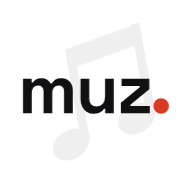
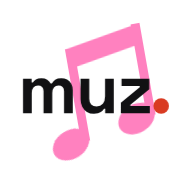
muzplayer 0.15.1: 핫핑크 음표 로고, 모던 다크(Spotify 스타일) 테마, 미니 재생바 숨기기 버튼
Claude-Session: https://claude.ai/code/session_01WfkWxhki5c3iBRETbQbxXK

Changed region(s): [[0.25, 0.0938, 0.8125, 0.8438]]

diff --git a/frontend/src/components/AppLogo.vue b/frontend/src/components/AppLogo.vue
@@ -1,7 +1,7 @@
 <script setup lang="ts">
-// The muz mark (a tile with "muz", a red dot and faint notes behind) and the name beside it. Its colours come from the
-// theme: a dark tile on light pages, and the other way round on a dark one (public/app-icon*.svg and
-// the PWA icons are the same drawing in fixed colours).
+// The muz mark (a tile with "muz", a red dot and hot-pink notes behind) and the name beside it.
+// The tile and the word follow the theme: a dark tile on light pages, a light one on the dark theme;
+// the dot and notes keep their colours. public/app-icon*.svg and the PWA icons are the same drawing.
 withDefaults(defineProps<{ size?: number; wordmark?: boolean }>(), { size: 32, wordmark: true })
 </script>
 
@@ -9,10 +9,10 @@ withDefaults(defineProps<{ size?: number; wordmark?: boolean }>(), { size: 32, w
   <span class="inline-flex items-center gap-2.5">
     <svg :width="size" :height="size" viewBox="0 0 512 512" aria-hidden="true">
       <rect width="512" height="512" rx="112.6" fill="var(--color-ink)" />
-      <!-- beamed eighth notes behind the word, see-through -->
-      <g fill="var(--color-bg)" opacity="0.11"><g transform="rotate(-10 256 256)"><ellipse cx="168" cy="372" rx="52" ry="38" transform="rotate(-22 168 372)"/><ellipse cx="352" cy="334" rx="52" ry="38" transform="rotate(-22 352 334)"/><rect x="196" y="120" width="24" height="250"/><rect x="380" y="84" width="24" height="248"/><path d="M196 120 L404 84 L404 138 L196 174 Z"/></g></g>
+      <!-- beamed eighth notes behind the word, in hot pink -->
+      <g fill="#FF2D95" opacity="0.68"><g transform="rotate(-10 256 256)"><ellipse cx="168" cy="372" rx="52" ry="38" transform="rotate(-22 168 372)"/><ellipse cx="352" cy="334" rx="52" ry="38" transform="rotate(-22 352 334)"/><rect x="196" y="120" width="24" height="250"/><rect x="380" y="84" width="24" height="248"/><path d="M196 120 L404 84 L404 138 L196 174 Z"/></g></g>
       <path transform="translate(48.51 301.81) scale(0.18473)" fill="var(--color-bg)" d="M70 0V-496H194V-442H212Q225 -467 255.0 -485.5Q285 -504 334 -504Q387 -504 419.0 -483.5Q451 -463 468 -430H486Q503 -462 534.0 -483.0Q565 -504 622 -504Q668 -504 705.5 -484.5Q743 -465 765.5 -425.5Q788 -386 788 -326V0H662V-317Q662 -358 641.0 -378.5Q620 -399 582 -399Q539 -399 515.5 -371.5Q492 -344 492 -293V0H366V-317Q366 -358 345.0 -378.5Q324 -399 286 -399Q243 -399 219.5 -371.5Q196 -344 196 -293V0ZM1093 8Q1035 8 991.5 -18.5Q948 -45 924.0 -92.0Q900 -139 900 -200V-496H1026V-210Q1026 -154 1053.5 -126.0Q1081 -98 1132 -98Q1190 -98 1222.0 -136.5Q1254 -175 1254 -244V-496H1380V0H1256V-65H1238Q1226 -40 1193.0 -16.0Q1160 8 1093 8ZM1482 0V-150L1754 -376V-392H1492V-496H1892V-346L1620 -120V-104H1900V0Z" />
-      <circle cx="429.75" cy="282.48" r="20.81" fill="var(--color-accent)" />
+      <circle cx="429.75" cy="282.48" r="20.81" fill="#E8432A" />
     </svg>
     <span v-if="wordmark" class="font-display tracking-tight" :style="{ fontSize: `${Math.round(size * 0.68)}px` }">
       <b>muz</b><span class="text-muted">player</span>

diff --git a/frontend/src/components/PlayerBar.vue b/frontend/src/components/PlayerBar.vue
@@ -30,8 +30,9 @@ const preview = ref<number | null>(null)
 
 const isBook = computed(() => player.mode === 'book' && !!player.book)
 
-// phone mini player: swipe sideways for the next / previous song, up to open the player, down to
-// tuck it away (App.vue then shows a small button; it comes back by itself when something starts)
+// phone mini player: swipe sideways for the next / previous song, up to open the player, down (or
+// the ∨ at its end) to tuck it away (App.vue then shows a small button; it comes back by itself
+// when something starts)
 const slide = ref(0)
 const sliding = ref(false)
 const swipe = useSwipe({
@@ -81,6 +82,7 @@ const segPos = computed(() => Math.min(segLength.value, Math.max(0, player.bookP
       <button type="button" class="grid size-11 place-items-center" :aria-label="t('player.skipForward', { n: player.skipForward })" @click="player.skip(player.skipForward)">
         <SkipIcon :seconds="player.skipForward" forward :size="26" />
       </button>
+      <button type="button" class="grid w-8 flex-none place-items-center self-stretch text-muted" :aria-label="t('player.hideBar')" @click="ui.barHidden = true"><ChevronDown :size="18" :stroke-width="1.6" /></button>
       <span class="absolute inset-x-6 bottom-0 h-[2px] bg-line">
         <span class="block h-full bg-accent" :style="{ width: player.book.duration ? `${(player.bookPos / player.book.duration) * 100}%` : '0%' }" />
       </span>
@@ -106,6 +108,7 @@ const segPos = computed(() => Math.min(segLength.value, Math.max(0, player.bookP
       <button type="button" class="grid size-11 place-items-center" :aria-label="t('player.queue')" @click="ui.queueOpen = true">
         <QueueIcon />
       </button>
+      <button type="button" class="grid w-8 flex-none place-items-center self-stretch text-muted" :aria-label="t('player.hideBar')" @click="ui.barHidden = true"><ChevronDown :size="18" :stroke-width="1.6" /></button>
       <span class="absolute inset-x-6 bottom-0 h-[2px] bg-line">
         <span class="block h-full bg-accent" :style="{ width: player.duration ? `${(player.currentTime / player.duration) * 100}%` : '0%' }" />
       </span>

diff --git a/frontend/src/style.css b/frontend/src/style.css
@@ -29,6 +29,7 @@
   --glass-shadow: 0 8px 24px rgb(17 17 19 / 0.1);
   --glow-strong: 55%; /* cover colour mixed into the background of the PC player */
   --glow-soft: 18%;
+  --player-glow: #c9d6e3; /* the players' soft background glow for a song without a cover */
   color-scheme: light;
 }
 
@@ -62,6 +63,36 @@
   background:
     radial-gradient(120% 55% at 85% 100%, color-mix(in srgb, var(--ambient, #d3cdc7) 45%, transparent), transparent 70%),
     linear-gradient(180deg, #cbc5bf 0%, #d6d1cc 100%);
+  transition: background 0.6s;
+}
+
+/* Modern dark (Spotify-like): near-black, raised greys, green accent, white pills with black text;
+   the playing song's cover colour washes down from the top of the page (App.vue sets --ambient). */
+:root[data-theme="spotify"] {
+  --color-bg: #121212;
+  --color-surface: #1f1f1f;
+  --color-surface-2: #2a2a2a;
+  --color-line: #262626;
+  --color-line-strong: #3a3a3a;
+  --color-ink: #ffffff;
+  --color-muted: #b3b3b3;
+  --color-subtle: #7c7c7c;
+  --color-accent: #1ed760;
+  --color-accent-strong: #1db954;
+  --color-accent-soft: #17311f;
+  --color-danger: #f3727f;
+  --color-on-ink: #000000;
+  --color-soft: #b3b3b3;
+  --color-sheet: #121212;
+  --glass-bg: rgb(24 24 24 / 0.88);
+  --glass-shadow: 0 8px 28px rgb(0 0 0 / 0.55);
+  --glow-strong: 40%;
+  --glow-soft: 14%;
+  --player-glow: #2a2a2a;
+  color-scheme: dark;
+}
+:root[data-theme="spotify"] .ambient {
+  background: linear-gradient(180deg, color-mix(in srgb, var(--ambient, #121212) 42%, #121212) 0, #121212 380px);
   transition: background 0.6s;
 }
 

diff --git a/frontend/src/App.vue b/frontend/src/App.vue
@@ -186,12 +186,12 @@ watch(() => ui.playerPrefs.musicSpeed, (on) => {
 })
 useWakeLock(() => ui.playerPrefs.keepAwake && player.playing && (ui.playerOpen || route.name === 'playing'))
 
-// Plexamp-style theme: the playing song's cover colour tints the page background
+// Plexamp-style and modern dark themes: the playing song's cover colour tints the page background
 const ambient = ref('')
 watch(
   () => [ui.theme, player.current?.album_id, player.current?.cover_v, player.current?.has_cover] as const,
   async ([theme, albumId, v, hasCover]) => {
-    ambient.value = theme === 'plexamp' && albumId && hasCover ? ((await coverGlow(albumId, v)) ?? '') : ''
+    ambient.value = (theme === 'plexamp' || theme === 'spotify') && albumId && hasCover ? ((await coverGlow(albumId, v)) ?? '') : ''
   },
   { immediate: true },
 )

diff --git a/frontend/public/sw.js b/frontend/public/sw.js
@@ -2,7 +2,7 @@
 // Music and API calls go to the server, except songs saved for offline (src/offline.ts), which
 // the player asks for with ?saved=1 and which are answered from the device. Covers with a version in the URL (?v=) never
 // change, so they are kept in their own cache and not asked for again.
-const CACHE = 'muz-shell-v2' // v2: the muz icons
+const CACHE = 'muz-shell-v3' // v3: the muz icons with pink notes
 const COVERS = 'muz-covers-v1' // also cleared on logout (stores/auth.ts)
 const AUDIO = 'muz-audio-v1' // songs fetched ahead by the page (src/audioCache.ts); not touched here
 const OFFLINE = 'muz-offline-v1' // songs saved for offline (src/offline.ts); never trimmed here

diff --git a/frontend/src/stores/ui.ts b/frontend/src/stores/ui.ts
@@ -6,10 +6,10 @@ import type { Quality } from '../stream'
 const PREFS_KEY = 'muz.ui'
 
 // remembered per browser; storage may be blocked (private window), then it just isn't kept
-export const THEMES = ['default', 'plexamp'] as const
+export const THEMES = ['default', 'plexamp', 'spotify'] as const
 export type Theme = (typeof THEMES)[number]
 // the browser's bar colour per theme (meta theme-color)
-const THEME_BARS: Record<Theme, string> = { default: '#FFFFFF', plexamp: '#CBC5BF' }
+const THEME_BARS: Record<Theme, string> = { default: '#FFFFFF', plexamp: '#CBC5BF', spotify: '#121212' }
 
 // display and player options from Settings, kept per browser
 export interface PlayerPrefs {

diff --git a/frontend/index.html b/frontend/index.html
@@ -19,9 +19,10 @@
       // the colour theme picked in Settings (stores/ui.ts), applied before the first paint
       try {
         var theme = JSON.parse(localStorage.getItem('muz.ui') || '{}').theme
-        if (theme === 'plexamp') {
+        var bars = { plexamp: '#CBC5BF', spotify: '#121212' }
+        if (bars[theme]) {
           document.documentElement.dataset.theme = theme
-          document.querySelector('meta[name="theme-color"]').setAttribute('content', '#CBC5BF')
+          document.querySelector('meta[name="theme-color"]').setAttribute('content', bars[theme])
         }
       } catch (e) {}
     </script>

diff --git a/frontend/src/components/NowPlaying.vue b/frontend/src/components/NowPlaying.vue
@@ -27,7 +27,7 @@ const ui = useUi()
 const lyrics = useLyrics()
 const preview = ref<number | null>(null)
 const menu = ref(false)
-const glow = ref('#C9D6E3')
+const glow = ref('var(--player-glow)')
 
 async function rate(stars: number | null) {
   if (!player.current) return
@@ -49,7 +49,7 @@ function videos() {
 watch(
   () => [player.current?.album_id, player.current?.cover_v] as const,
   async ([albumId, v]) => {
-    glow.value = '#C9D6E3'
+    glow.value = 'var(--player-glow)'
     if (albumId && player.current?.has_cover) glow.value = (await coverGlow(albumId, v)) ?? glow.value
   },
   { immediate: true },

diff --git a/frontend/src/views/PlayingView.vue b/frontend/src/views/PlayingView.vue
@@ -22,12 +22,12 @@ const { t } = useI18n()
 const player = usePlayer()
 const library = useLibrary()
 const ui = useUi()
-const glow = ref('#C9D6E3')
+const glow = ref('var(--player-glow)')
 
 watch(
   () => [player.current?.album_id, player.current?.cover_v] as const,
   async ([albumId, v]) => {
-    glow.value = '#C9D6E3'
+    glow.value = 'var(--player-glow)'
     if (albumId && player.current?.has_cover) glow.value = (await coverGlow(albumId, v)) ?? glow.value
   },
   { immediate: true },

diff --git a/frontend/src/components/ThemeSwitch.vue b/frontend/src/components/ThemeSwitch.vue
@@ -3,7 +3,7 @@ import { useI18n } from 'vue-i18n'
 import { THEMES, useUi } from '../stores/ui'
 
 // colour themes, each with a small preview of its background, surface and accent
-const SWATCHES = { default: ['#FFFFFF', '#F4F4F5', '#D93B22'], plexamp: ['#D3CDC7', '#F8F6F3', '#CC7B19'] }
+const SWATCHES = { default: ['#FFFFFF', '#F4F4F5', '#D93B22'], plexamp: ['#D3CDC7', '#F8F6F3', '#CC7B19'], spotify: ['#121212', '#2A2A2A', '#1ED760'] }
 const { t } = useI18n()
 const ui = useUi()
 </script>

diff --git a/music_player_plan.md b/music_player_plan.md
@@ -1,6 +1,6 @@
 # 개인 NAS 다중 사용자 음악 플레이어 개발 계획서
 
-- **문서 버전:** 1.32
+- **문서 버전:** 1.33
 - **작성일:** 2026-10-29
 - **대상 환경:** Synology DS218+ / DSM 7 / Container Manager
 - **프로젝트명:** muzplayer (화면 표시명·저장소·이미지 이름 모두 동일)
@@ -1443,6 +1443,7 @@ library/music/                 ← 음악 폴더 (1.18 전: MUSIC_PATH)
 | 1.30 | 2026-11-01 | 0.14.0 — 제스처 추가: 하단 시트(BaseModal)·오디오북 재생 화면 아래로 쓸어 닫기, 대기열 오른쪽으로 밀어 닫기·행 왼쪽으로 밀어 빼기·길게 눌러 끌어 순서 바꾸기, 곡 목록 행 오른쪽=다음에 재생·왼쪽=좋아요·길게 눌러 메뉴, 오디오북 표지 좌우로 건너뛰기, 앨범아트 두 번 탭 좋아요(`swipe.ts` useLongPress). 가사 배경을 앨범아트 색의 투명 방사형 그라데이션으로. 앨범 소개를 앨범 제목·가수 아래로. 새 로고·아이콘: Space Grotesk Bold "muz"와 빨간 점, 뒤에 흐린 8분음표(탭 아이콘 제외), 라이트(흰 바탕)·다크(검은 바탕) 두 벌(`icon-*.png`, `icon-dark-*.png`, `app-icon*.svg`), 탭 아이콘은 시스템 라이트/다크에 따라 바뀜, 앱 안 로고는 테마 색을 따름, 서비스 워커 캐시 v2 |
 | 1.31 | 2026-11-01 | 0.14.1: 휴대폰 가사 화면 — 가사 영역을 진행바와 띄우고 위·아래 끝에서 줄이 흐려지게(mask), 글씨 크기 버튼을 왼쪽 위로, 가사를 보는 동안 제목·가수 옆에 작은 앨범아트(가운데 정렬, 누르면 가사 닫기) |
 | 1.32 | 2026-11-01 | 0.15.0: 회원가입(설정 `signup`: off·approval·open, `POST /auth/signup`, 주소당 시간당 5회, 승인 대기 계정은 로그인 시 `pending_approval`), 사용자 관리(삭제, 이름·권한 편집, 승인·거절, 가입일·최근 로그인; 마이그레이션 0015 `users.pending`·`last_login_at`). 세션 기본 60일(`SESSION_DAYS`). 홈에 둥근 재생목록 카드(랜덤 100 + 내 플레이리스트, 누르면 재생; `/playlists`에 표지), 기존 홈 순서에 새 줄은 기본 위치에 끼움. 플레이어 바 숨기기(휴대폰 아래로 쓸기·버튼), 재생 시작하면 다시 표시. 라이브러리 머리말에서 정렬 줄이 보기 방식 버튼 밑으로 겹치던 것과 좁은 화면에서 개수가 잘리던 것 수정 |
+| 1.33 | 2026-11-01 | 0.15.1: 로고 음표를 핫핑크(#FF2D95)로, 앱 안 로고 점은 테마와 상관없이 빨강. 모던 다크 테마(`data-theme="spotify"`: #121212 바탕, #1ED760 강조, 흰 버튼에 검은 글자, 커버 색이 페이지 위에서 번짐, `--player-glow`). 휴대폰 미니 재생바에 숨기기(∨) 버튼을 항상 표시 |
 | 1.23 | 2026-10-30 | 0.10.0: 라이브러리 메뉴(앨범·아티스트·곡·장르·폴더 탭, 마지막 탭 기억), 폴더 보기(DB 기준, 경로 NFC 비교, 폴더별 캐시 — 10만 곡에서 처음 0.15초), PC 재생 화면을 사이드바·바 안의 페이지(`/playing`)로, 뒤로가기(PC 상단 ←/→, 휴대폰 하위 페이지 ‹, 열린 창은 뒤로로 위에서부터 닫힘), PC 상단 언어 선택 삭제(계정 메뉴에 있음). 연결 풀 고갈 재발 수정: `current_user`가 연결을 쥔 채 다음 작업 스레드를 기다려, 표지가 한꺼번에 뜨면 스레드 40개가 모두 연결을 기다리며 교착 — 인증 조회 뒤 `commit()`으로 바로 반납(표지 1,800개 동시 요청 3.9초, 시간 초과 0) |
 | 1.22 | 2026-10-30 | 0.9.1: `QueuePool limit of size 5 overflow 5 reached` 수정. FastAPI 0.162는 yield 의존성(`get_db`)을 응답을 다 보낸 뒤에 닫아서, 곡 스트리밍·커버 전송 동안 DB 연결을 쥐고 있었음(곡 6개 동시 재생 = 연결 6개 `idle in transaction`). 모든 `get_db`를 `scope="function"`으로 바꿔 엔드포인트가 끝나면 바로 닫음 — 12곡 동시 스트리밍 중에도 연결 점유 0, 다른 요청 3~12ms |
 | 1.21 | 2026-10-30 | 0.9.0: 폴더별 스캔·재스캔(태그 다시 읽기, id 유지)·초기화(곡 삭제 후 다시 읽기, 확인 창에 잃는 별점·좋아요·재생 횟수 개수), 폴더 종류를 바꾸면 그 폴더를 바로 다시 분류(차트·테마가 안 보이던 문제: 다음 스캔까지 반영되지 않았음). LRC 가사: 가사 태그가 여러 개면 시간 정보 있는 것을 먼저(USLT 여러 개·TXXX:LYRICS·`.Lrc`), BOM·앞 공백·쉼표 소수점·단어별 시간 처리. AI 모델을 키로 목록 조회해서 고르기(직접 입력 가능), API 키 만드는 법 도움말. PC용 재생 화면(아트·조작부 + 가사·대기열 탭), 하단 바에 지금 가사 한 줄, 플레이어 숨기기, 사이드바 접기, 별점·좋아요 마우스 효과, 대기열 재구성(지금 곡으로 이동, 재생한 곡 접기, 끌어서 순서 바꾸기). 앨범·아티스트·곡 목록형·커버형·격자형. 장르 컬러 타일(장르별 고정 색, 대표 앨범 커버 3장). 아티스트 사진: 폴더의 artist.jpg 우선, 없으면 위키백과(한국어→영어, 넘겨주기 따라감, 음악가 설명이 있는 문서만) — Last.fm은 2019년부터 사진 미제공, 벅스는 공개 API 없음, Deezer는 한국 아티스트 오인(예: IU가 다른 아티스트) 확인 후 제외. 마이그레이션 0007 |

diff --git a/README.md b/README.md
@@ -39,7 +39,7 @@ muzplayer는 NAS의 음악 폴더를 그대로 읽어 스트리밍 앱처럼 보
 - **중복 정리(관리자):** 라이브러리 → 아티스트·장르의 "중복 정리"에서 이름만 다르게 태그된 아티스트("IU"·"아이유 (IU)")나 장르("K-Pop"·"kpop")를 하나로 합침. 비슷한 이름을 제안하고, 직접 골라 합칠 수도 있음. 파일 태그는 그대로 두고 이후 스캔도 합친 이름으로 정리하며, 되돌릴 수 있음
 - **앨범 소개:** 앨범 화면 아래에 표시. 앨범 폴더에 eztag가 만든 앨범카드(`[앨범카드] ….html`)가 있으면 그 소개를 쓰고, 없으면 관리자가 "설명 업데이트"에서 벅스·멜론을 검색해 고른 앨범의 소개를 가져오거나 직접 씀
 - **다운로드(오프라인):** 앨범·플레이리스트를 기기에 저장해 인터넷 없이 듣기. 내 음악 → 다운로드에서 재생·삭제. https 주소에서만 됨
-- **테마:** 기본(흰 화면)과 Plexamp 스타일(따뜻한 회색 바탕, 주황 강조, 재생 중인 곡의 커버 색이 배경에 번짐). 설정에서 고르고 브라우저마다 기억함
+- **테마:** 기본(흰 화면), Plexamp 스타일(따뜻한 회색 바탕, 주황 강조, 재생 중인 곡의 커버 색이 배경에 번짐), 모던 다크(Spotify 스타일: 검은 바탕, 초록 강조, 커버 색이 위에서 번짐). 설정에서 고르고 브라우저마다 기억함
 - **뒤로 가기:** 앱으로 설치해 브라우저 버튼이 없어도 화면 위 뒤로 버튼으로 이동. 휴대폰의 뒤로 동작은 열린 재생 화면·대기열부터 닫음
 - **좋아요·별점:** 곡과 앨범에 좋아요와 별 0.5~5개(반 개 단위). 사람마다 따로 저장됨
 - **믹스·스마트 재생목록:** 랜덤 100곡, 자주 듣는 곡, 가장 많이 들은 곡, 오랜만에 듣기, 별점 높은 곡, 아직 안 들은 곡, 최근 추가된 곡, 시대별 믹스.
